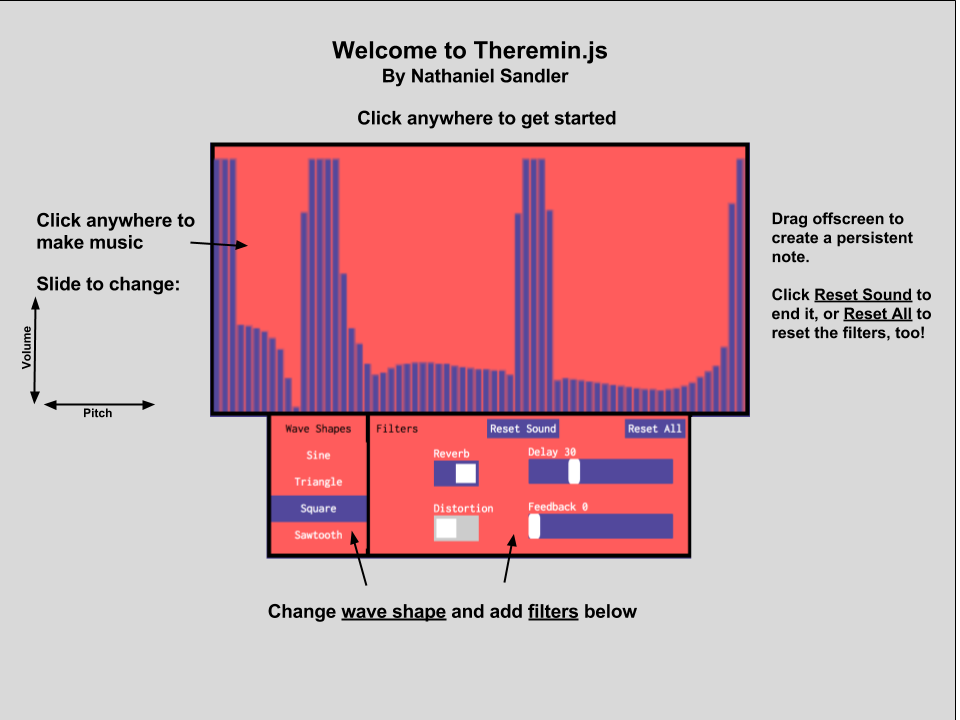
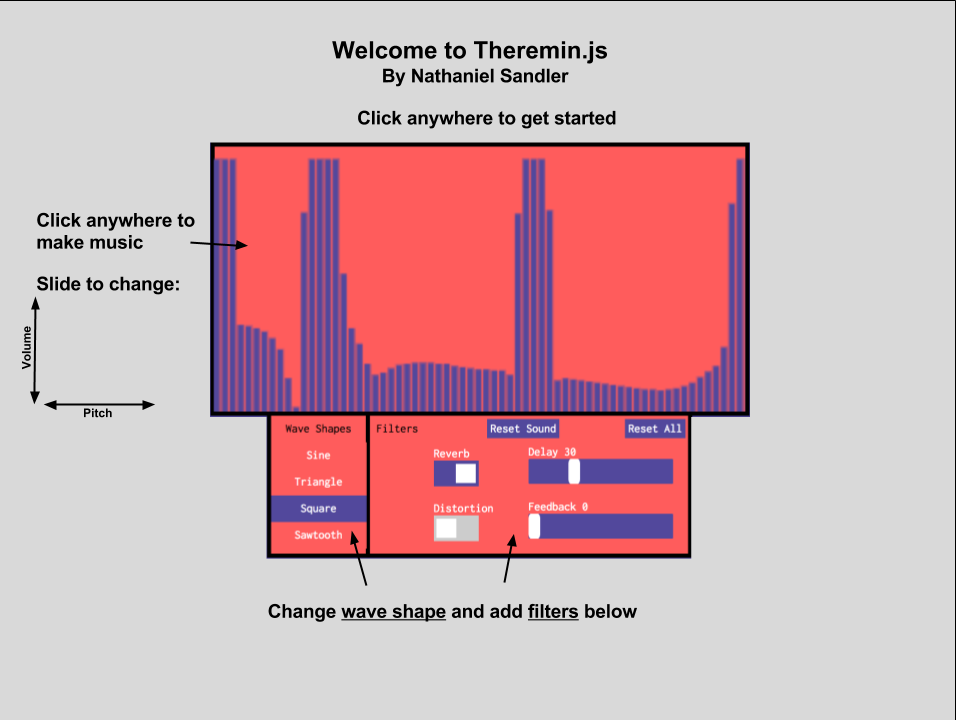
minor change to css and instructions;

Changed region(s): [[0.8125, 0.3972, 0.9688, 0.4889], [0.7812, 0.275, 0.9688, 0.3667]]

diff --git a/index.html b/index.html
@@ -41,7 +41,7 @@
             <section class="filters">
                 <section class="filter-labels">
                   <label>Filters</label>
-                  <label id="reset-sound" class="reset button">Reset Sound</label>
+                  <label id="reset-sound" class="reset button">Reset Filters</label>
                 </section>
               <section class="filter-rows">
 

diff --git a/javascript/event_listeners.js b/javascript/event_listeners.js
@@ -164,8 +164,8 @@ function resetFilters(e){
   delayFeedback.gain.value = feedbackVal;
   delay.delayTime.value = delayVal;
   delayOutput.value = "30"
-  feedbackOutput.value = "40"
+  feedbackOutput.value = "80"
 
   delaySlider.value = 30;
-  feedbackSlider.value = 40;
+  feedbackSlider.value = 80;
 }
